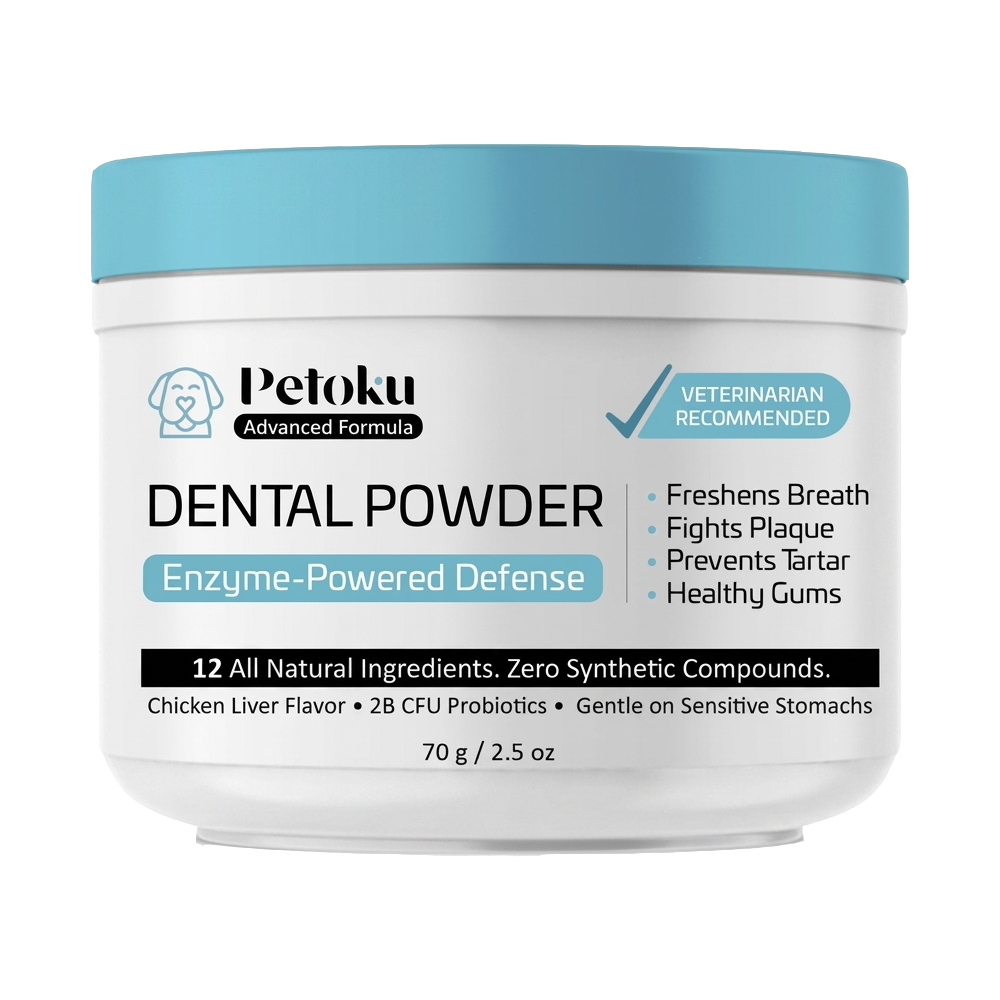
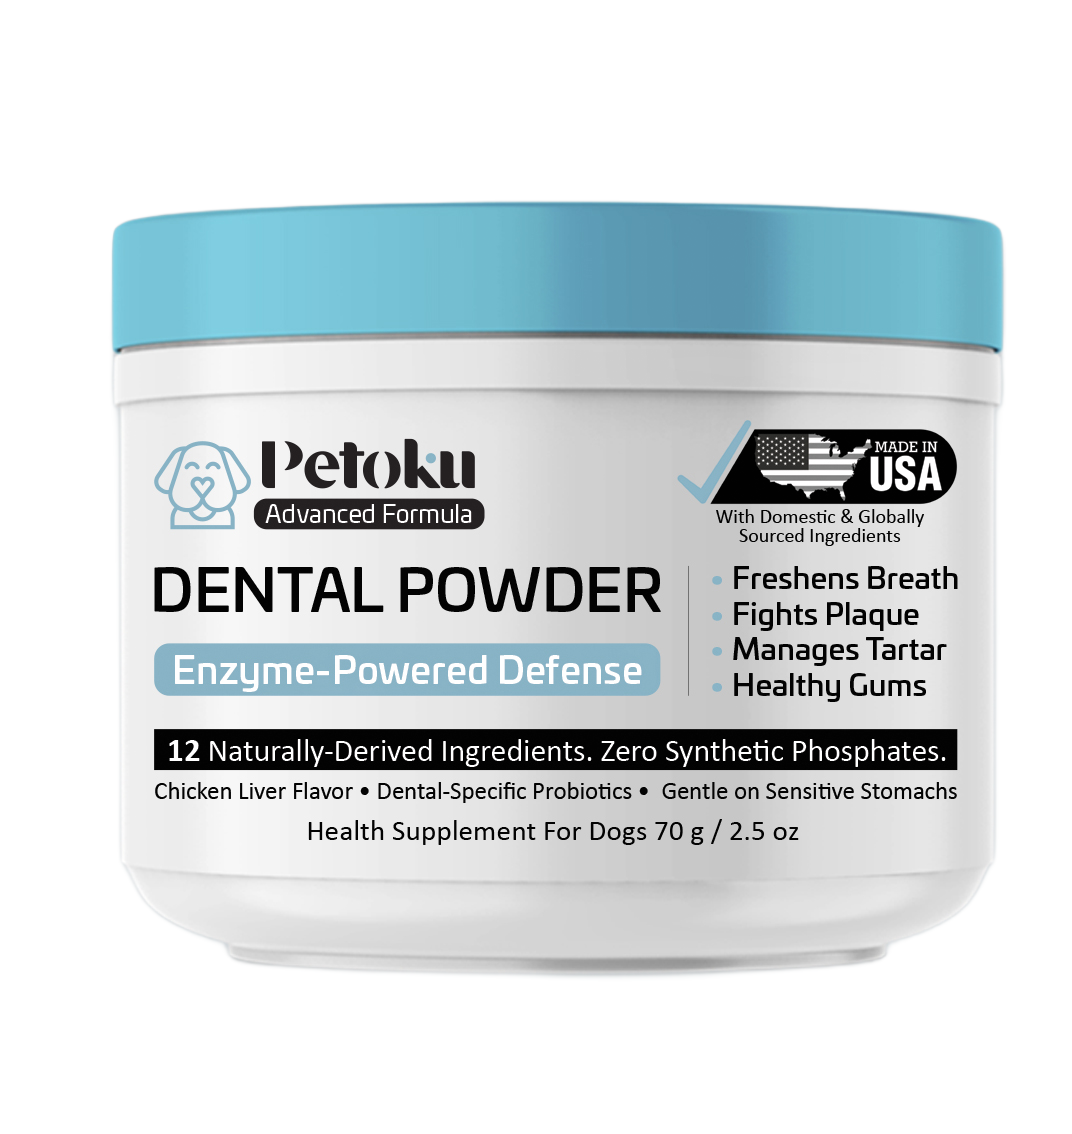
Update copy to naturally-derived ingredients and zero synthetic phosphates
Replace all "all natural" / "100% natural ingredients" language with
"naturally-derived ingredients" sitewide. Update "Zero Synthetic Compounds"
to "Zero Synthetic Phosphates" to match updated product image and badges.
Swap product image to No_Background.png and certifications to Badges2.png.

Changed region(s): [[0.093, 0.124, 0.961, 0.806], [0.186, 0.806, 0.868, 0.868]]

diff --git a/index.html b/index.html
@@ -210,7 +210,7 @@
               Starts Here.
             </h1>
             <p class="reveal delay-2 font-body text-lg mb-8 max-w-md" style="color:#4a4a4a; line-height:1.7;">
-              12 All Natural Ingredients. Zero Synthetic Compounds.<br />
+              12 Naturally-Derived Ingredients. Zero Synthetic Phosphates.<br />
               Enzyme-powered dental care your dog will actually enjoy.
             </p>
             <div class="reveal delay-3 flex flex-wrap items-center gap-4 mb-10">
@@ -218,7 +218,7 @@
               <a href="https://petoku-test-website.vercel.app/#ingredients" class="btn-outline">See the Formula</a>
             </div>
             <div class="reveal delay-4 flex flex-wrap gap-2">
-              <span class="badge">All Natural</span>
+              <span class="badge">Naturally-Derived</span>
               <span class="badge">Enzyme-Powered</span>
               <span class="badge">Dental-Specific Probiotics</span>
             </div>
@@ -226,7 +226,7 @@
 
           <div class="flex-1 flex justify-center md:justify-end reveal delay-2">
             <div style="filter:drop-shadow(0 32px 72px rgba(61,128,155,0.3)) drop-shadow(0 8px 24px rgba(61,128,155,0.2));">
-              <img src="brand_assets/No_Background3.png"
+              <img src="brand_assets/No_Background.png"
                 alt="Petoku Dental Powder"
                 class="w-80 md:w-88 lg:w-[420px] rounded-2xl" />
             </div>
@@ -239,14 +239,14 @@
     <!-- TRUST MARQUEE -->
     <section style="background:#fff; border-top:1px solid rgba(134,178,197,0.2); border-bottom:1px solid rgba(134,178,197,0.2); overflow:hidden; padding:13px 0;">
       <div class="marquee-track">
-        <span class="marquee-item">12 Natural Ingredients</span><span class="marquee-dot">·</span>
+        <span class="marquee-item">12 Naturally-Derived Ingredients</span><span class="marquee-dot">·</span>
         <span class="marquee-item">Veterinarian Recommended</span><span class="marquee-dot">·</span>
         <span class="marquee-item">Enzyme-Powered Defense</span><span class="marquee-dot">·</span>
         <span class="marquee-item">Dental-Specific Probiotics</span><span class="marquee-dot">·</span>
         <span class="marquee-item">Chicken Liver Flavor Dogs Love</span><span class="marquee-dot">·</span>
         <span class="marquee-item">Gentle on Sensitive Stomachs</span><span class="marquee-dot">·</span>
         <span class="marquee-item">Zero Synthetic Compounds</span><span class="marquee-dot">·</span>
-        <span class="marquee-item">12 Natural Ingredients</span><span class="marquee-dot">·</span>
+        <span class="marquee-item">12 Naturally-Derived Ingredients</span><span class="marquee-dot">·</span>
         <span class="marquee-item">Veterinarian Recommended</span><span class="marquee-dot">·</span>
         <span class="marquee-item">Enzyme-Powered Defense</span><span class="marquee-dot">·</span>
         <span class="marquee-item">Dental-Specific Probiotics</span><span class="marquee-dot">·</span>
@@ -259,7 +259,7 @@
     <!-- CREDIBILITY BADGES -->
     <section style="background:#e8f1f5; padding:40px 0;">
       <div class="max-w-3xl mx-auto px-6 reveal">
-        <img src="brand_assets/Badges.png" alt="Manufacturing certifications: Made in USA, NASC Preferred Supplier, cGMP Certified, 100% Natural Ingredients"
+        <img src="brand_assets/Badges2.png" alt="Manufacturing certifications: Made in USA, NASC Preferred Supplier, cGMP Certified, Made with Naturally-Derived Ingredients, Free from Synthetic Phosphates"
           style="width:100%; display:block; margin:0 auto; border-radius:16px;">
       </div>
     </section>
@@ -282,7 +282,7 @@
           <div class="flex flex-col md:flex-row items-stretch">
             <div class="md:w-2/5 relative min-h-[320px]" style="background:linear-gradient(145deg,#2e6a82 0%,#3d809b 40%,#86b2c5 80%,#c4dce8 100%);">
               <div class="p-10 flex items-center justify-center h-full">
-                <img src="brand_assets/No_Background3.png"
+                <img src="brand_assets/No_Background.png"
                   alt="Petoku Dental Powder"
                   class="w-56 md:w-64 rounded-xl"
                   style="filter:drop-shadow(0 16px 40px rgba(17,17,17,0.28));" />
@@ -321,7 +321,7 @@
                 <a href="https://www.amazon.com/shops/petoku" target="_blank" rel="noopener" class="btn-primary">Shop Now</a>
                 <div>
                   <p class="font-body text-sm" style="color:#aaa;">Free shipping on orders over $50</p>
-                  <p class="font-body text-xs mt-0.5" style="color:#86b2c5;">Made with 100% Natural Ingredients</p>
+                  <p class="font-body text-xs mt-0.5" style="color:#86b2c5;">Made with Naturally-Derived Ingredients</p>
                 </div>
               </div>
             </div>
@@ -331,8 +331,8 @@
         <div class="mt-10 rounded-2xl p-6 text-center reveal delay-2"
           style="background:linear-gradient(135deg,#e8f1f5 0%,#c4dce8 100%);">
           <p class="font-display text-xl md:text-2xl text-ink" style="font-weight:600; letter-spacing:-0.02em;">
-            <strong style="color:#3d809b;">12</strong> All Natural Ingredients.
-            <strong style="color:#3d809b;">Zero</strong> Synthetic Compounds.
+            <strong style="color:#3d809b;">12</strong> Naturally-Derived Ingredients.
+            <strong style="color:#3d809b;">Zero</strong> Synthetic Phosphates.
           </p>
         </div>
 
@@ -406,7 +406,7 @@
         <div class="text-center mb-14 reveal">
           <p class="section-label mb-3">What's Inside</p>
           <h2 class="font-display text-4xl md:text-5xl tracking-tighter text-ink">
-            12 All Natural <span style="color:#3d809b;">Ingredients</span>
+            12 Naturally-Derived <span style="color:#3d809b;">Ingredients</span>
           </h2>
           <p class="font-body text-base mt-4 max-w-xl mx-auto" style="color:#666; line-height:1.7;">
             Every ingredient is chosen for a specific purpose. No fillers, no synthetic compounds, just clean science.
@@ -594,7 +594,7 @@
             <div class="relative" style="max-width:360px; width:100%;">
               <div class="relative rounded-3xl overflow-hidden"
                 style="box-shadow:0 16px 64px rgba(61,128,155,0.22), 0 4px 16px rgba(61,128,155,0.14);">
-                <img src="brand_assets/No_Background3.png"
+                <img src="brand_assets/No_Background.png"
                   alt="Petoku Dental Powder" class="w-full block" />
                 <div class="absolute inset-0"
                   style="background:linear-gradient(135deg,rgba(61,128,155,0.28) 0%,transparent 55%); pointer-events:none;"></div>
@@ -638,7 +638,7 @@
 
           <div class="testimonial-card reveal delay-1" id="tc2">
             <div class="flex gap-1 mb-4"><span class="star">★</span><span class="star">★</span><span class="star">★</span><span class="star">★</span><span class="star">★</span></div>
-            <p class="font-body text-base mb-6" style="color:#444; line-height:1.7;">"Our vet recommended Petoku after noticing early tartar buildup. One month in and her last checkup was perfect. Love that it's all natural, so no worries about what she's ingesting."</p>
+            <p class="font-body text-base mb-6" style="color:#444; line-height:1.7;">"Our vet recommended Petoku after noticing early tartar buildup. One month in and her last checkup was perfect. Love that it's made with naturally-derived ingredients, so no worries about what she's ingesting."</p>
             <div class="flex items-center gap-3">
               <div class="w-10 h-10 rounded-full flex items-center justify-center font-body font-semibold text-lg text-white flex-shrink-0" style="background:#3d809b; font-weight:700;">J</div>
               <div>

diff --git a/blog/dog-dental-care-without-brushing.html b/blog/dog-dental-care-without-brushing.html
@@ -126,7 +126,7 @@
         <div style="background:#e8f1f5; border-radius:20px; padding:36px 40px; display:flex; align-items:center; justify-content:space-between; gap:24px; flex-wrap:wrap;">
           <div>
             <h3 class="font-display text-2xl text-ink mb-1">Try Petoku for Your Dog</h3>
-            <p class="font-body text-sm" style="color:#666;">A complete dental formula with 12 natural ingredients. Sprinkle on food once daily.</p>
+            <p class="font-body text-sm" style="color:#666;">A complete dental formula with 12 naturally-derived ingredients. Sprinkle on food once daily.</p>
           </div>
           <a href="https://www.amazon.com/shops/petoku" target="_blank" rel="noopener" class="btn-primary" style="white-space:nowrap;">Shop on Amazon</a>
         </div>

diff --git a/blog/why-does-my-dogs-breath-smell.html b/blog/why-does-my-dogs-breath-smell.html
@@ -133,7 +133,7 @@
         <div style="background:#e8f1f5; border-radius:20px; padding:36px 40px; display:flex; align-items:center; justify-content:space-between; gap:24px; flex-wrap:wrap;">
           <div>
             <h3 class="font-display text-2xl text-ink mb-1">Try Petoku for Your Dog</h3>
-            <p class="font-body text-sm" style="color:#666;">A complete dental formula with 12 natural ingredients. Sprinkle on food once daily.</p>
+            <p class="font-body text-sm" style="color:#666;">A complete dental formula with 12 naturally-derived ingredients. Sprinkle on food once daily.</p>
           </div>
           <a href="https://www.amazon.com/shops/petoku" target="_blank" rel="noopener" class="btn-primary" style="white-space:nowrap;">Shop on Amazon</a>
         </div>
